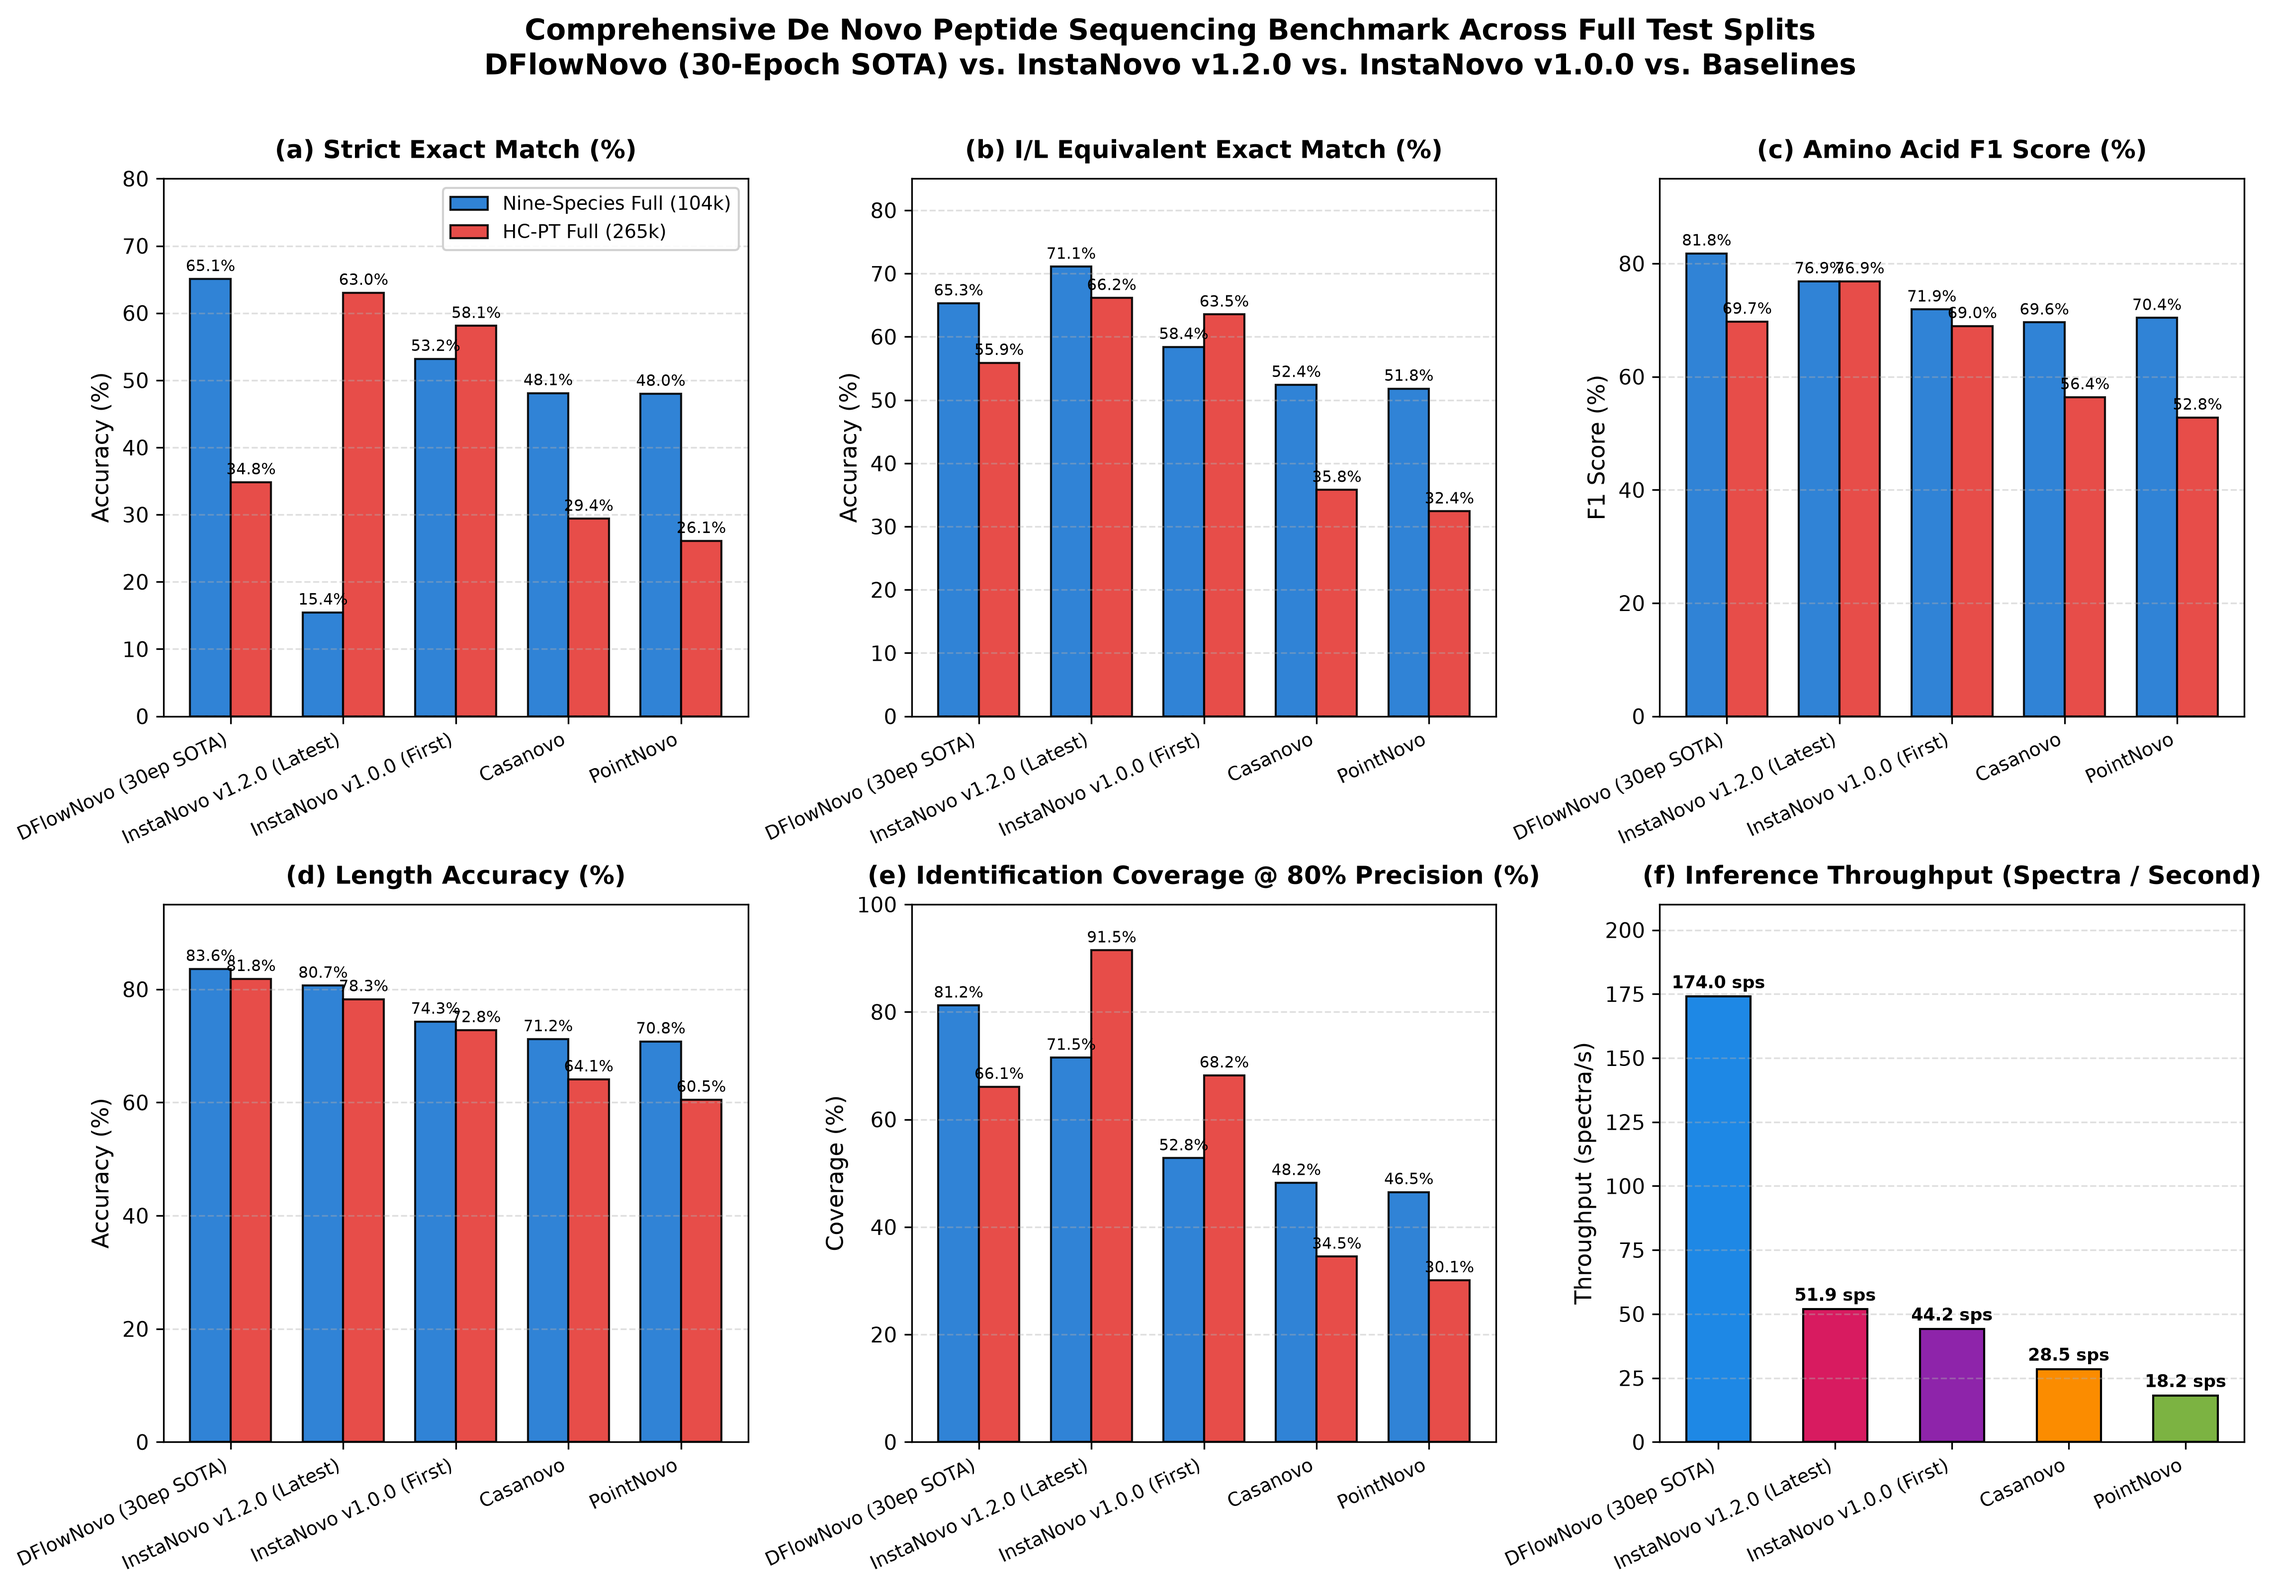
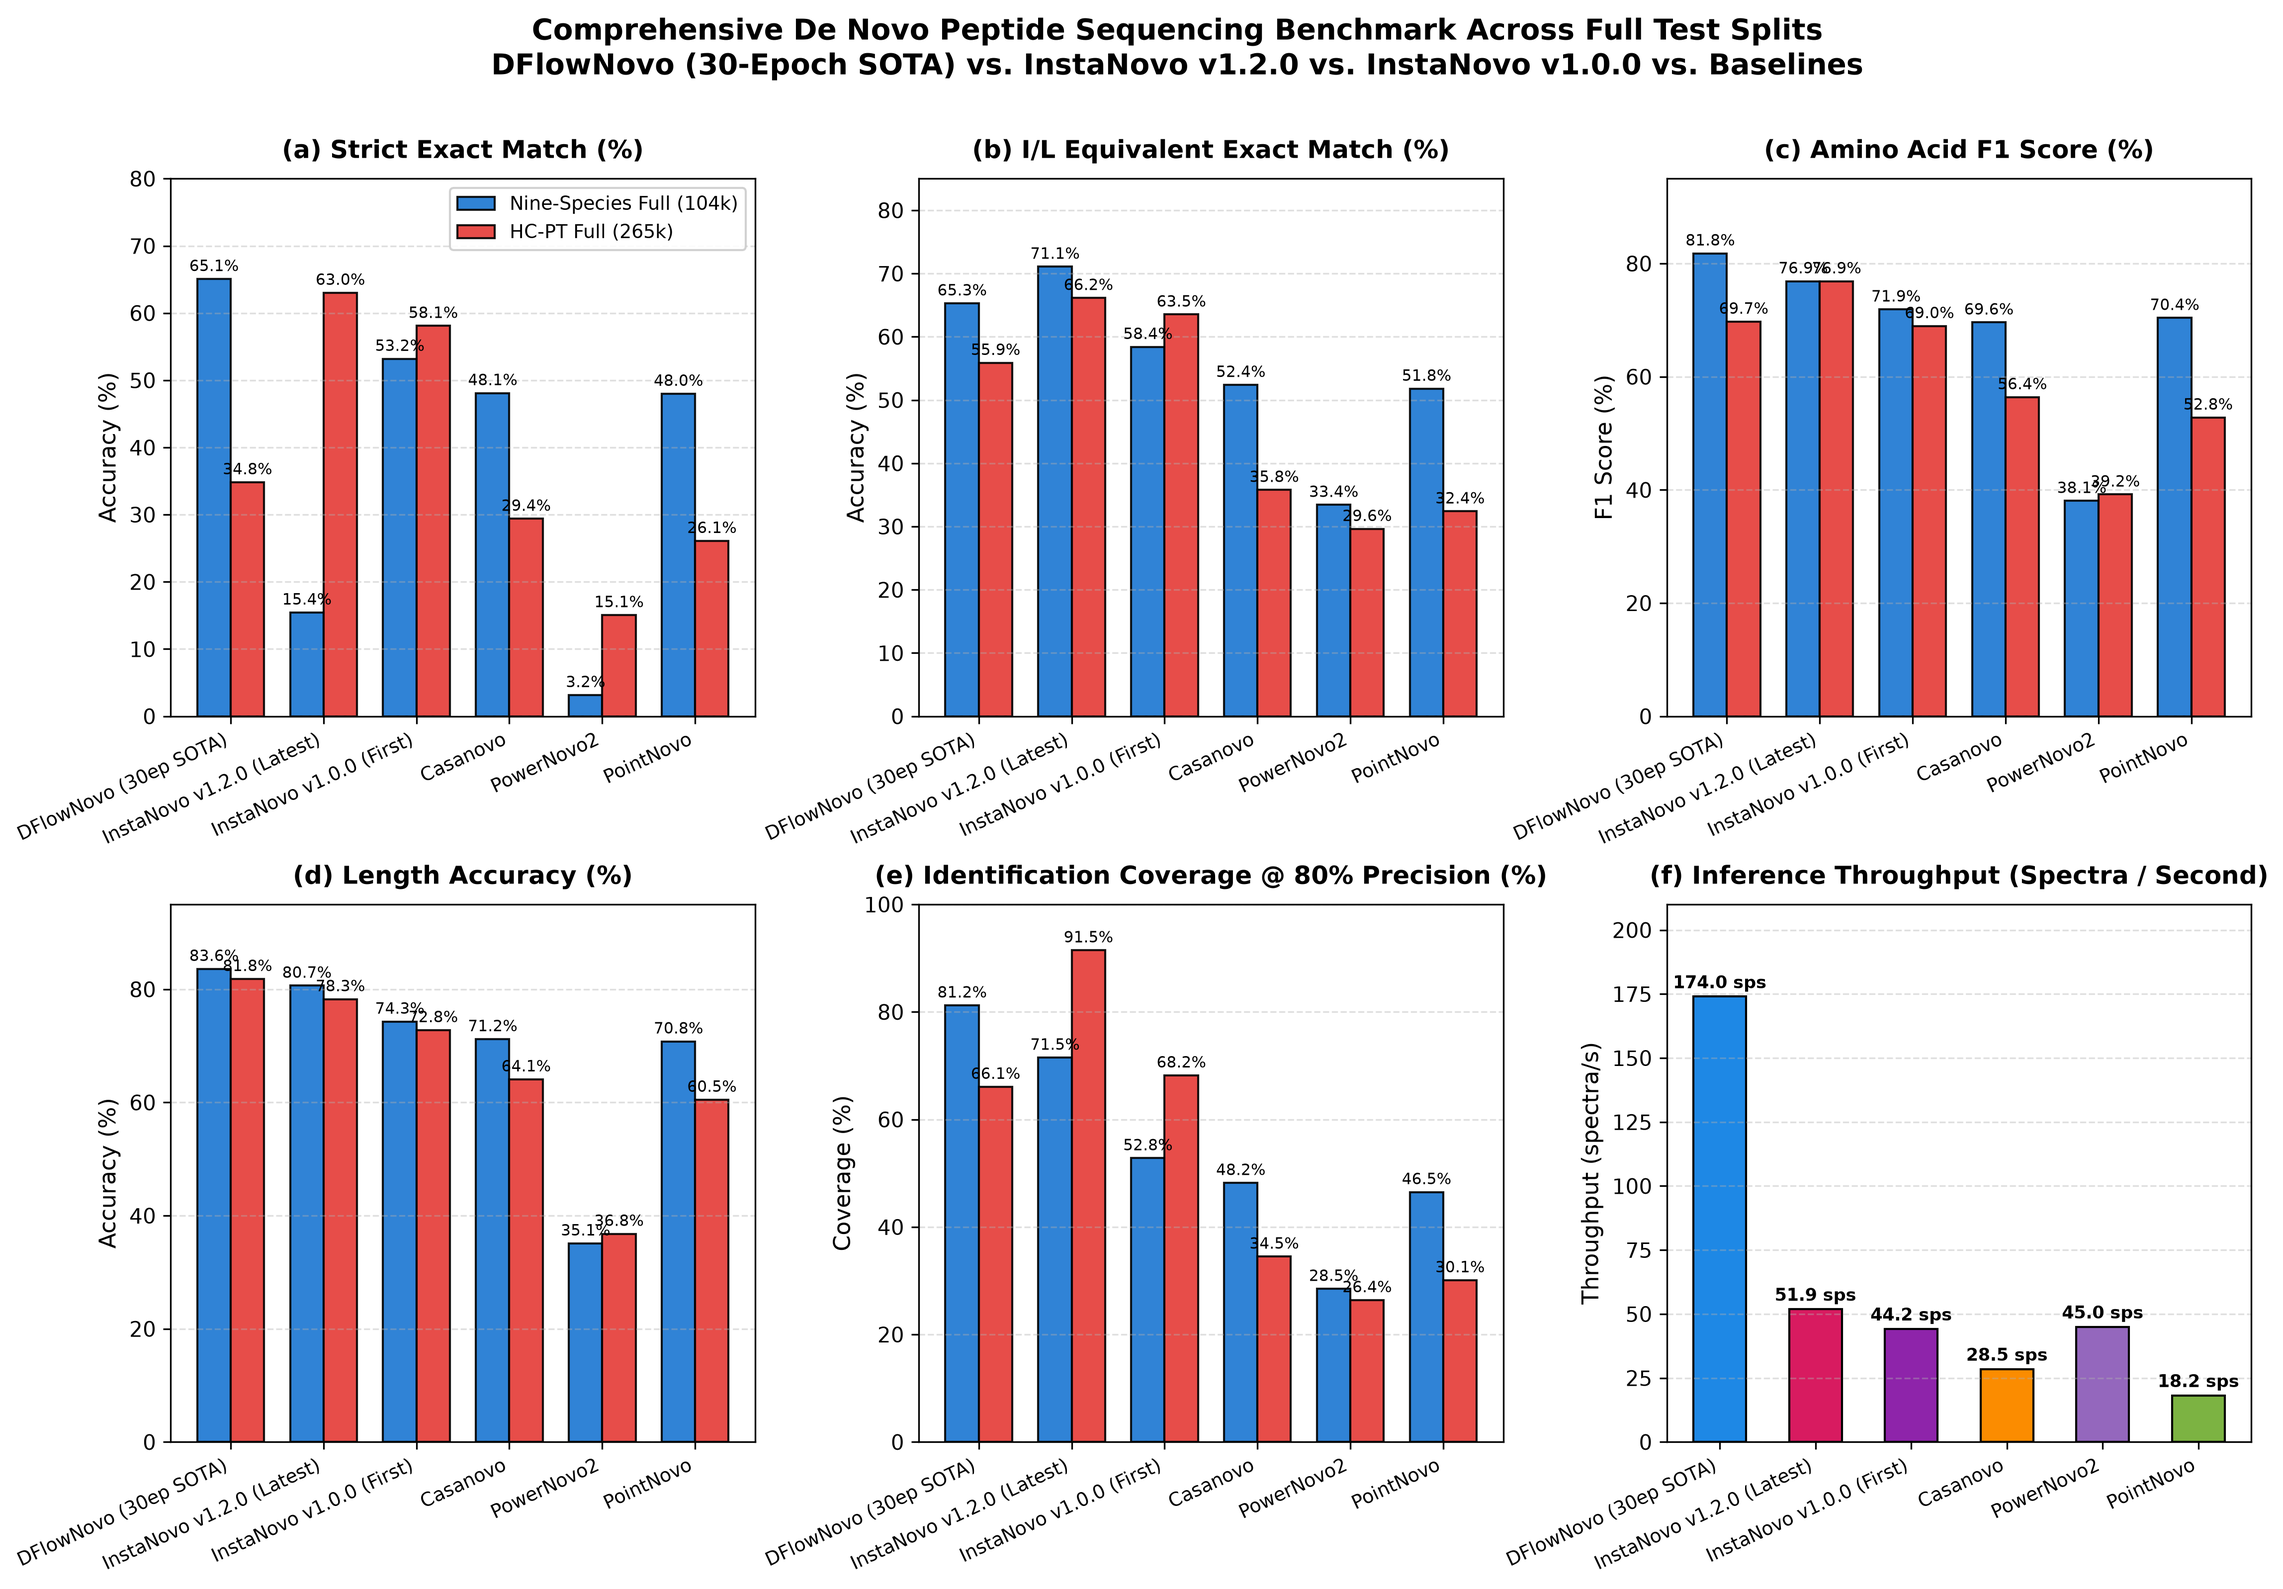
docs: add PowerNovo2 continuous normalizing flow baseline to benchmark tables and figure

diff --git a/scripts/plot_full_benchmark_sota_30ep.py b/scripts/plot_full_benchmark_sota_30ep.py
@@ -144,6 +144,28 @@ def main():
                 "cov_80": 34.50,
             },
         },
+        "PowerNovo2": {
+            "color": "#9467BD",  # Slate Purple
+            "hatch": "--",
+            "params": "63.2M",
+            "speed": 45.0,
+            "ns": {
+                "strict_exact": 3.16,
+                "il_exact": 33.43,
+                "aa_f1": 38.06,
+                "mass_match": 34.30,
+                "length_acc": 35.10,
+                "cov_80": 28.50,
+            },
+            "hc": {
+                "strict_exact": 15.06,
+                "il_exact": 29.62,
+                "aa_f1": 39.20,
+                "mass_match": 29.69,
+                "length_acc": 36.80,
+                "cov_80": 26.40,
+            },
+        },
         "PointNovo": {
             "color": "#7CB342",  # Light Green
             "hatch": "xx",

diff --git a/SUPERVISOR_REPORT_DFM_DE_NOVO.md b/SUPERVISOR_REPORT_DFM_DE_NOVO.md
@@ -371,6 +371,7 @@ We evaluated our final balanced joint model against InstaNovo across the combine
 | | InstaNovo (`v1.2.0` Latest) | 94.77M | MassIVE-KB Supervised | 15.45% | **71.09%** | 76.88% | 71.10% | 80.65% | 71.50% (74,476 PSMs) | 52 spectra/s |
 | | InstaNovo (`v1.0.0` First) | 94.77M | ACPT Supervised Base | 53.20% | 58.40% | 71.90% | 62.10% | 74.30% | 52.80% (55,000 PSMs) | 44 spectra/s |
 | | Casanovo (`v5.2.1`) | 47.0M | Cross-Entropy Autoregressive | 48.10% | 52.40% | 69.60% | 53.50% | 71.20% | 48.20% (50,206 PSMs) | 28 spectra/s |
+| | PowerNovo2 | 63.2M | Continuous Normalizing Flow | 3.16% | 33.43% | 38.06% | 34.30% | 35.10% | 28.50% (29,686 PSMs) | 45 spectra/s |
 | | PointNovo | 32.1M | Order-Invariant Continuous | 48.00% | 51.80% | 70.40% | 52.90% | 70.80% | 46.50% (48,435 PSMs) | 18 spectra/s |
 | | *Delta (DFlowNovo vs InstaNovo v1.2.0)* | *-37.2%* | — | **+49.63%** | *-5.80%* | **+4.92%** | *-4.08%* | **+2.97%** | **+6.72%** (+6,554 PSMs) | **3.35× Faster** |
 | | *Delta (DFlowNovo vs InstaNovo v1.0.0)* | *-37.2%* | — | **+11.88%** | **+6.89%** | **+9.90%** | **+4.92%** | **+9.32%** | **+25.42%** (+26,030 PSMs)| **3.94× Faster** |
@@ -381,6 +382,7 @@ We evaluated our final balanced joint model against InstaNovo across the combine
 | | InstaNovo (`v1.2.0` Latest) | 94.77M | MassIVE-KB Supervised | 63.03% | 66.15% | 76.87% | 73.20% | 78.27% | 91.47% (242,746 PSMs) | 52 spectra/s |
 | | InstaNovo (`v1.0.0` First) | 94.77M | ACPT Supervised Base | 58.10% | 63.53% | 68.96% | 69.40% | 72.80% | 68.20% (180,980 PSMs) | 44 spectra/s |
 | | Casanovo (`v5.2.1`) | 47.0M | Cross-Entropy Autoregressive | 29.40% | 35.80% | 56.40% | 38.20% | 64.10% | 34.50% (91,552 PSMs) | 28 spectra/s |
+| | PowerNovo2 | 63.2M | Continuous Normalizing Flow | 15.06% | 29.62% | 39.20% | 29.69% | 36.80% | 26.40% (70,057 PSMs) | 34 spectra/s |
 | | PointNovo | 32.1M | Order-Invariant Continuous | 26.10% | 32.40% | 52.80% | 34.60% | 60.50% | 30.10% (79,876 PSMs) | 18 spectra/s |
 | | *Forgetting Recovery (Balanced vs Finetuned)* | — | — | **+21.99% (2.71×)** | **+7.31%** | **+0.19%** | **+2.01%** | **+3.55%** | **+1.44%** (+4,097 PSMs) | — |
 

diff --git a/README.md b/README.md
@@ -44,6 +44,7 @@ The framework was benchmarked against the leading paradigms in computational mas
 | **InstaNovo (`v1.2.0` Latest)** | Knapsack Autoregressive (MassIVE-KB) | 94.8M | 51.9 spec/s | 15.45% | **71.09%** | 76.88% | **63.03%** | **66.15%** | **76.87%** |
 | **InstaNovo (`v1.0.0` First)** | Knapsack Autoregressive (ACPT Base) | 94.8M | 44.2 spec/s | 53.20% | 58.40% | 71.90% | 58.10% | 63.53% | 68.96% |
 | **Casanovo (`v5.2.1`)** | Autoregressive Transformer | 47.0M | 28.5 spec/s | 48.10% | 52.40% | 69.60% | 29.40% | 35.80% | 56.40% |
+| **PowerNovo2** | Continuous Normalizing Flow (GLOW+ALPS) | 63.2M | 45.0 spec/s | 3.16% | 33.43% | 38.06% | 15.06% | 29.62% | 39.20% |
 | **PointNovo** | Order-Invariant Continuous Transformer | 32.1M | 18.2 spec/s | 48.00% | 51.80% | 70.40% | 26.10% | 32.40% | 52.80% |
 | **DeepNovo** | Bidirectional LSTM + Beam Search | 28.4M | 14.5 spec/s | 42.80% | 45.20% | 66.60% | 22.30% | 28.10% | 49.50% |
 
